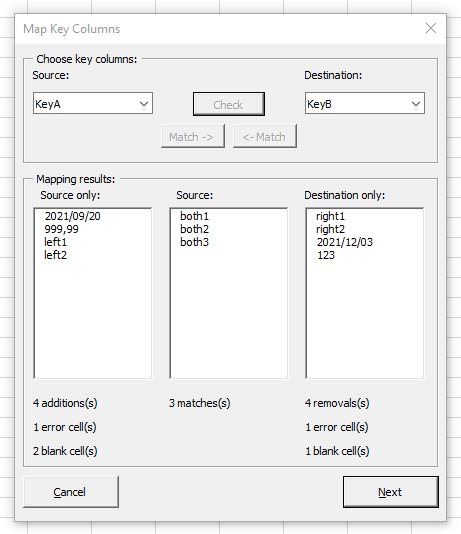
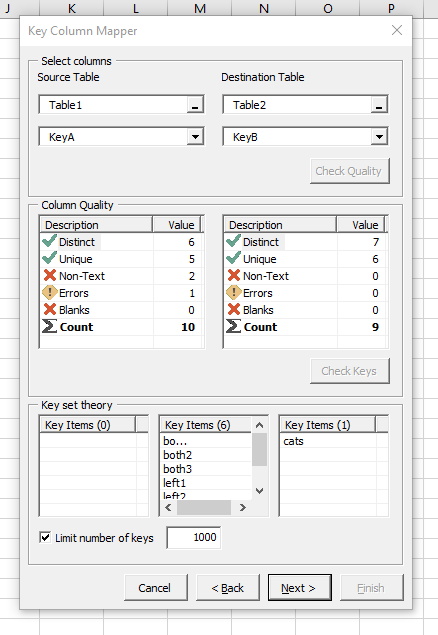
Updated README.md and screenshots

Changed region(s): [[0.0, 0.0, 1.0, 0.9888]]

diff --git a/README.md b/README.md
@@ -1,0 +1,55 @@
+# excel-table-transfer
+A tool for transferring data between Excel tables.
+
+> **WARNING:** Transfer operations by macros cannot be reversed using the Undo feature of Excel. Always backup your data beforehand!
+
+## Background
+At work we spend a lot of time using VLOOKUP, XLOOKUP, and other techniques such as INDEX(MATCH()) to copy data between spreadsheets. 
+
+Some of the issues we faced were:
+
+1. Having to manually check that all the keys were present in both sheets.
+2. Ensuring that each key appeared exactly once in each sheet.
+3. Incremental updates — i.e. only updating cells in the destination sheet which were blank.
+4. Ignoring blank cells in the source sheet — i.e. not replacing existing data in the destination sheet with blank cells from the source sheet.
+5. Having to do the above for multiple columns, which are not necessarily in the same order, or with the same name.
+
+## Table Transfer Tool
+
+The tool is made up of three parts:
+
+### Table Browser
+
+This lets you select the source table from which you are retrieving data. 
+
+![Table browser](images/source-table.png)
+
+### Map Key Columns
+
+This lets you choose the key columns in the source and destination tables.
+
+![Map Key Columns](images/key-mapping.png)
+
+`Check Quality` checks to ensure that the Key Columns are unique, and that they do not contain any errors, or non-text values.
+
+`Check Keys` compares the two key column fields to check how many keys are matched in both columns, how many are in the source table only, and how many are in the destination only.
+
+### Map Value Columns
+
+This lets you choose which columns are mapped between the two tables. 
+
+`Auto Map` will attempt to match columns by name. The rest of the interface should be self-explanatory.
+
+![Map Value Columns](images/value-mapping.png)
+
+### Options
+
+Options dialog. Self-explanatory.
+
+![Options](images/options.png)
+
+### History
+
+The tool can optionally store a record of every transfer that is successful. This allows us to recall previous transfers and run them again.
+
+![History](images/History.png)

diff --git a/Notes/TODO.md b/Notes/TODO.md
@@ -9,17 +9,19 @@
 - [x] "Show mapped only" x2 for Value Mapper
 - [x] Remove unmapped in source
 - [x] Append unmapped in destination
+- [x] Serialize TransferInstruction to/from VeryHidden worksheet
+- [x] Update git README.md with new screenshots
 - [ ] Option to exclude non-unique keys from mapping (i.e. do not map to key vs map to first occurrence)
 - [ ] Highlighted of additions/mapped/removals
 - [ ] Transfer include/exclude values by VarType()
-- [ ] Serialize TransferInstruction to/from VeryHidden worksheet
 - [ ] Cancel/Back/Next/Finish stages (AppContext?)
 - [ ] Map values into newly created columns
 - [ ] Finish mapping without any mapped columns (i.e. to add/remove keys only)
-- [ ] "Transfer" sort order
+- [ ] "Transfer" sort order (i.e. Sort the keys in destination table by the order they are in the source table)
 - [ ] Match key columns by name
 - [ ] Smart key column guessing (try to find columns with 100% unique values and 1:1 match between src/dst)
 - [ ] Transfer .NumberFormat from first cell in src column to entire dst column
 - [ ] Transfer ColumnWidths
 - [ ] Transfer font-family, font-size, vertical-alignment, horizontal-alignment, text-wrapping
 - [ ] Change Column Quality icons to reflect desireable values for measures
+- [ ] Add splash screen that asks if the table in Selection is the source or destination. This replaces TableSelect as the intial dialog
